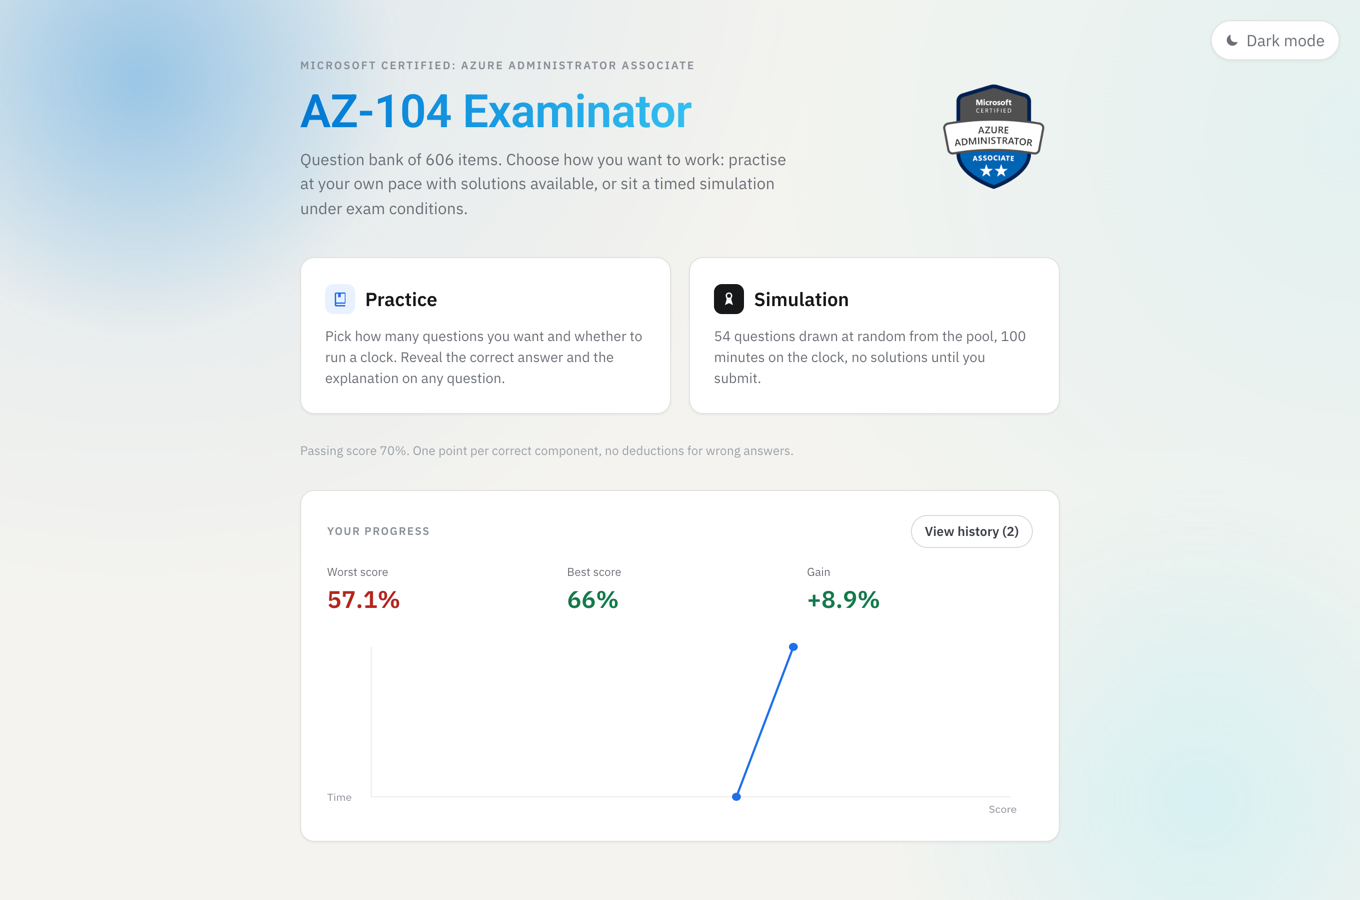
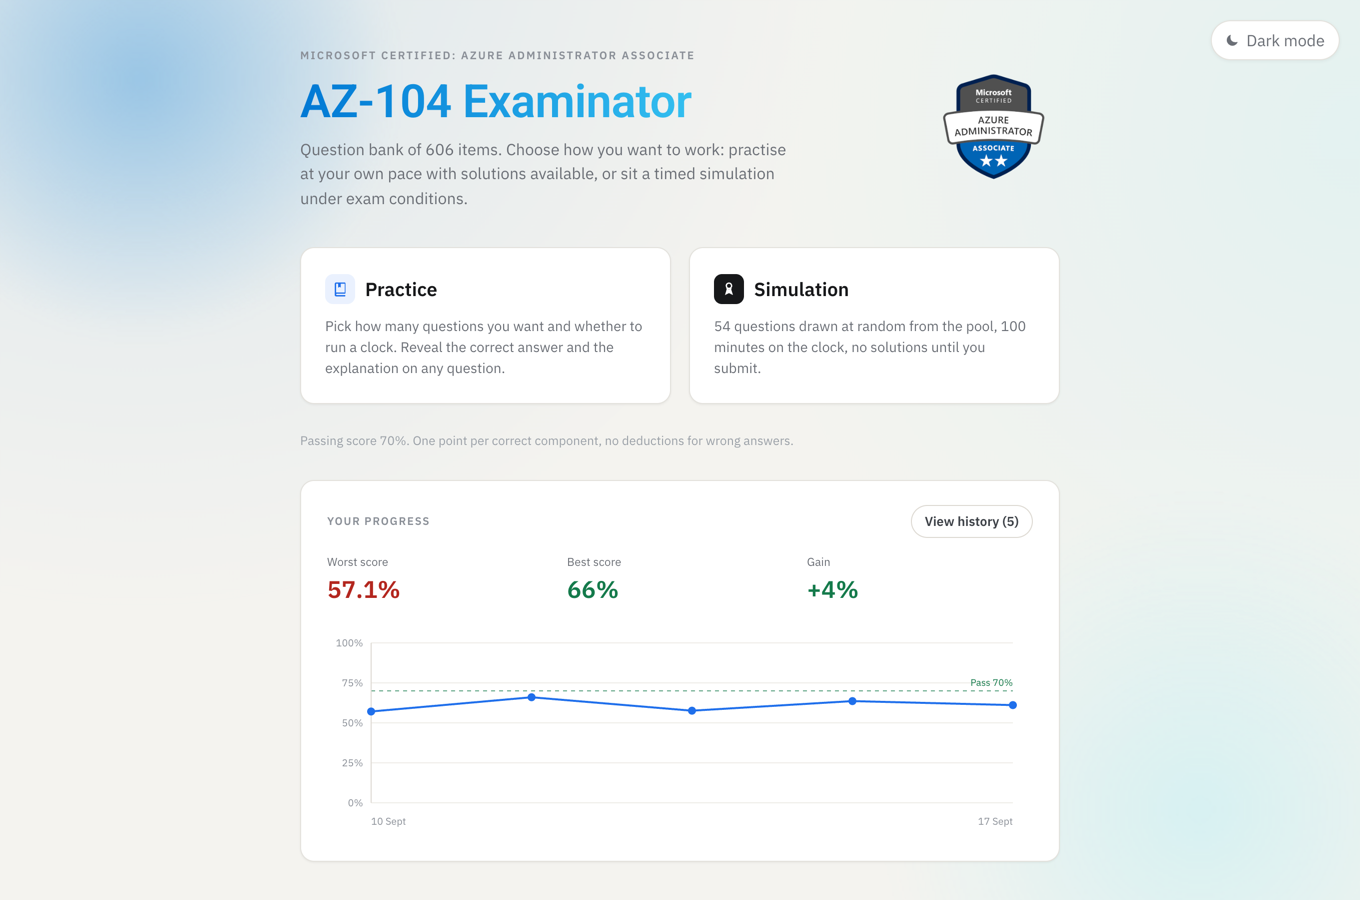
doc: updated readme

diff --git a/README.md b/README.md
@@ -1,114 +1,173 @@
 # AZ-104 Examinator
 
-Simulatore d'esame per la certificazione Microsoft AZ-104, con un question bank di 606 domande.
+An exam simulator for the Microsoft AZ-104 (Azure Administrator Associate) certification, built around a question
+bank of 606 items. .NET 10 Web API, PostgreSQL, React + TypeScript — the whole stack runs in Docker, so nothing
+has to be installed locally except Docker itself.
 
-## Screenshot
+## Screenshots
 
-Schermata iniziale: scelta della modalità e andamento dei punteggi delle sessioni già svolte.
+Home screen: pick a mode and see how your scores are trending across the sessions you have already sat.
 
-![Schermata iniziale](docs/screenshots/home.png)
+![Home screen](docs/screenshots/home.png)
 
-Una domanda durante una sessione di pratica, con lo screenshot allegato (*exhibit*) aperto e la
-soluzione disponibile su richiesta.
+A question during a practice session, with its attached screenshot (*exhibit*) open and the solution available on
+demand.
 
-![Una domanda durante la sessione](docs/screenshots/question.png)
+![A question during a session](docs/screenshots/question.png)
 
-Storico delle sessioni inviate: da qui si riapre un tentativo passato con domande, risposte date e soluzioni.
+History of submitted sessions: open any past attempt to go through its questions, your answers and the solutions.
 
-![Storico delle sessioni](docs/screenshots/history.png)
+![Session history](docs/screenshots/history.png)
 
-## Struttura del progetto
+## What it does
+
+- **Two modes.** *Practice* lets you choose how many questions you want, whether to run a clock, and whether the
+  solution should appear on its own as soon as you answer. *Simulation* is a fixed timed set under exam conditions.
+- **Every question type is clickable and scored** — multiple choice, drag & drop sequences, hotspot rows and
+  yes/no statements — rather than self-assessed.
+- **Microsoft's own partial credit rule**: one point per correctly answered component, nothing deducted for wrong
+  ones, so a single mistake never zeroes out a multi-part question.
+- **Exhibits**: the screenshots that come with a question are shown inline and can be zoomed in and out, since many
+  of them are small and dense.
+- **History and progress**: every submitted session is kept with its questions and answers, and the home screen
+  charts your scores over time.
+- **Sessions survive an interruption.** The session in progress is saved as you go, so a reload, a closed tab or a
+  laptop lid coming down doesn't cost you your answers — and the clock stops while the app is away.
+
+## Project layout
 
 ```
-AZ-104.Examinator.BE/          Backend .NET (API + progetto di test)
-AZ-104.Examinator.FE/          Frontend React + TypeScript
-AZ-104.Examinator.Database/    Schema SQL e importer del question bank
-AZ-104.QuestionsDataset/       Dati sorgente (JSON + versione leggibile in Markdown)
+AZ-104.Examinator.BE/          .NET backend (API + test project)
+AZ-104.Examinator.FE/          React + TypeScript frontend
+AZ-104.Examinator.Database/    SQL schema and question bank importer
+AZ-104.QuestionsDataset/       Source data (JSON + a human-readable Markdown version)
 docker-compose.yml
 ```
 
-## Avvio
+## Getting started
 
-### Primo avvio
+### First run
 
 ```bash
 docker compose --profile setup run --rm importer
 docker compose up -d
 ```
 
-Il primo comando crea da solo tutto il necessario — volume, database, schema — aspetta che sia pronto e importa le 606 domande: non serve avviare prima nient'altro a mano. Il secondo comando avvia API e frontend, che a questo punto trovano già il database popolato.
+The first command creates everything it needs on its own — volume, database, schema — waits until it is ready and
+imports the 606 questions: nothing else has to be started by hand beforehand. The second one brings up the API and
+the frontend, which by then find a populated database.
 
-L'API è raggiungibile su **http://localhost:5080**, con la documentazione interattiva su **http://localhost:5080/swagger**. Il frontend è su **http://localhost:5173** (server di sviluppo Vite con hot reload — non serve Node installato in locale, gira tutto nel container `web`; niente build di produzione per ora).
+The API is served at **http://localhost:5080**, with interactive documentation at **http://localhost:5080/swagger**.
+The frontend is at **http://localhost:5173** (Vite dev server with hot reload — no local Node needed, it all runs
+inside the `web` container; no production build for now).
 
-### Avvii successivi
+### Subsequent runs
 
 ```bash
 docker compose up -d
 ```
 
-Il database e le domande restano nel volume Docker: basta questo comando, senza rieseguire l'importer. Va rilanciato solo dopo un `docker compose down -v` (che azzera il volume) o se si vuole ricaricare il question bank da un JSON aggiornato.
+The database and the questions live in a Docker volume, so this command is all it takes — no need to run the
+importer again. That is only necessary after a `docker compose down -v` (which wipes the volume), or when you want
+to reload the question bank from an updated JSON file.
 
-### Importazione del question bank
+### Importing the question bank
 
 ```bash
 docker compose --profile setup run --rm importer
 ```
 
-Legge `AZ-104.QuestionsDataset/az104_606_domande.json` e popola il database con le 606 domande, sostituendo quelle già presenti. A differenza di `db` e `api`, l'importer non fa parte dei servizi avviati automaticamente da `docker compose up` e non riparte da solo a ogni riavvio: va lanciato esplicitamente ogni volta che serve.
+Reads `AZ-104.QuestionsDataset/az104_606_domande.json` and fills the database with the 606 questions, replacing
+whatever was there. Unlike `db` and `api`, the importer is not among the services started automatically by
+`docker compose up` and does not come back by itself on a restart: run it explicitly whenever you need it.
 
-### Servizi opzionali
+Note that the JSON is **copied into the importer image** at build time rather than mounted, so after editing the
+dataset rerun it with `--build`, otherwise the stale copy gets imported again:
+
+```bash
+docker compose --profile setup run --rm --build importer
+```
+
+### Database migrations
+
+`db/init/01_schema.sql` only runs when the `pgdata` volume is first created, so a database that already exists
+needs schema changes applied by hand, from `AZ-104.Examinator.Database/db/migrations/`:
+
+```bash
+docker compose exec -T db psql -U examinator -d examinator < AZ-104.Examinator.Database/db/migrations/<file>.sql
+```
+
+A fresh volume needs none of them: the same DDL is already part of `01_schema.sql`.
+
+### Optional services
 
 ```bash
 docker compose --profile dev up -d pgweb
 ```
 
-Client SQL via browser su http://localhost:8081, utile per ispezionare il database senza installare nulla.
+A browser-based SQL client at http://localhost:8081, handy for inspecting the database without installing anything.
 
-### Ripartire da zero (in caso di problemi)
+### Starting over (when something gets stuck)
 
-Quando qualcosa si incastra — un'immagine che non si aggiorna, il frontend che continua a servire codice vecchio,
-un `node_modules` corrotto nel volume — la via più rapida è buttare giù tutto e ricostruire:
+When things jam — an image that won't update, a frontend still serving old code, a corrupted `node_modules` in the
+volume — the quickest way out is to tear everything down and rebuild:
 
 ```bash
 docker compose --profile dev --profile setup down -v --rmi local --remove-orphans
 ```
 
-Rimuove in un colpo solo container, volumi (`pgdata` e `web_node_modules`) e le immagini costruite in locale
-(`api`, `web`, `importer`). I profili vanno nominati entrambi, altrimenti `importer` e `pgweb` restano fuori dalla
-pulizia. Le immagini scaricate da registri esterni (`postgres`, `pgweb`, le base image .NET e Node) non vengono
-toccate: per togliere anche quelle si usa `--rmi all`, ma il primo avvio successivo dovrà riscaricarle.
+That removes containers, volumes (`pgdata` and `web_node_modules`) and locally built images (`api`, `web`,
+`importer`) in one go. Both profiles have to be named, or `importer` and `pgweb` are left out of the cleanup.
+Images pulled from external registries (`postgres`, `pgweb`, the .NET and Node base images) are left alone; to drop
+those as well use `--rmi all`, at the cost of downloading them again on the next start.
 
-Se un `docker rmi` si rifiuta di procedere con un errore tipo `image is being used by stopped container`, significa
-che esiste ancora un container fermo che la usa — spesso avviato a mano con `docker run`, quindi invisibile a
-`docker compose down`, che gestisce solo i propri servizi:
+If a `docker rmi` refuses with something like `image is being used by stopped container`, a stopped container is
+still holding it — often one started by hand with `docker run`, and therefore invisible to `docker compose down`,
+which only manages its own services:
 
 ```bash
-docker ps -a                  # elenca ANCHE i container fermi, con il nome dell'immagine che occupano
-docker rm <container>         # rimuove il container che la trattiene
-docker rmi <immagine>         # ora l'immagine si elimina
+docker ps -a                  # lists stopped containers too, with the image each one occupies
+docker rm <container>         # remove the container holding it
+docker rmi <image>            # now the image can go
 ```
 
-Per ricominciare dopo la pulizia servono entrambi i passaggi del primo avvio, non solo `up`: le immagini vanno
-ricostruite e il question bank reimportato, dato che `-v` ha azzerato il volume del database.
+Coming back from a cleanup takes both steps of the first run, not just `up`: the images have to be rebuilt and the
+question bank re-imported, since `-v` wiped the database volume.
 
 ```bash
-docker compose build --no-cache                    # opzionale: forza una ricostruzione senza cache
-docker compose --profile setup run --rm importer   # ricrea schema e ricarica le 606 domande
+docker compose build --no-cache                    # optional: force a rebuild with no cache
+docker compose --profile setup run --rm importer   # recreate the schema and reload the 606 questions
 docker compose up -d
 ```
 
-## Test
+## Tests
 
 ```bash
 cd AZ-104.Examinator.BE/AZ-104.Examinator.Api.Tests
 dotnet test
 ```
 
-## Comandi utili
+No local Postgres is required: the repositories are substituted, never hit against a real database.
+
+Without a local .NET SDK, the same suite runs in a container:
 
 ```bash
-docker compose --profile dev up -d    # avvia tutti i servizi, pgweb compreso (senza --profile resta spento)
-docker compose down -v                # azzera tutto, incluso il volume del database
-docker compose stop pgweb             # ferma un servizio dietro profilo (va nominato esplicitamente)
-docker compose --profile dev down     # pulizia completa includendo i servizi dietro profilo
+docker run --rm -v "$PWD/AZ-104.Examinator.BE:/src" -w /src/AZ-104.Examinator.Api.Tests \
+  mcr.microsoft.com/dotnet/sdk:10.0 dotnet test
+```
+
+For the frontend, once `web` is up:
+
+```bash
+docker compose exec web npx tsc -b --noEmit   # type check only
+docker compose exec web npm run lint
+```
+
+## Handy commands
+
+```bash
+docker compose --profile dev up -d    # start every service, pgweb included (without --profile it stays down)
+docker compose down -v                # wipe everything, database volume included
+docker compose stop pgweb             # stop a service behind a profile (it has to be named explicitly)
+docker compose --profile dev down     # full cleanup, services behind profiles included
 ```
